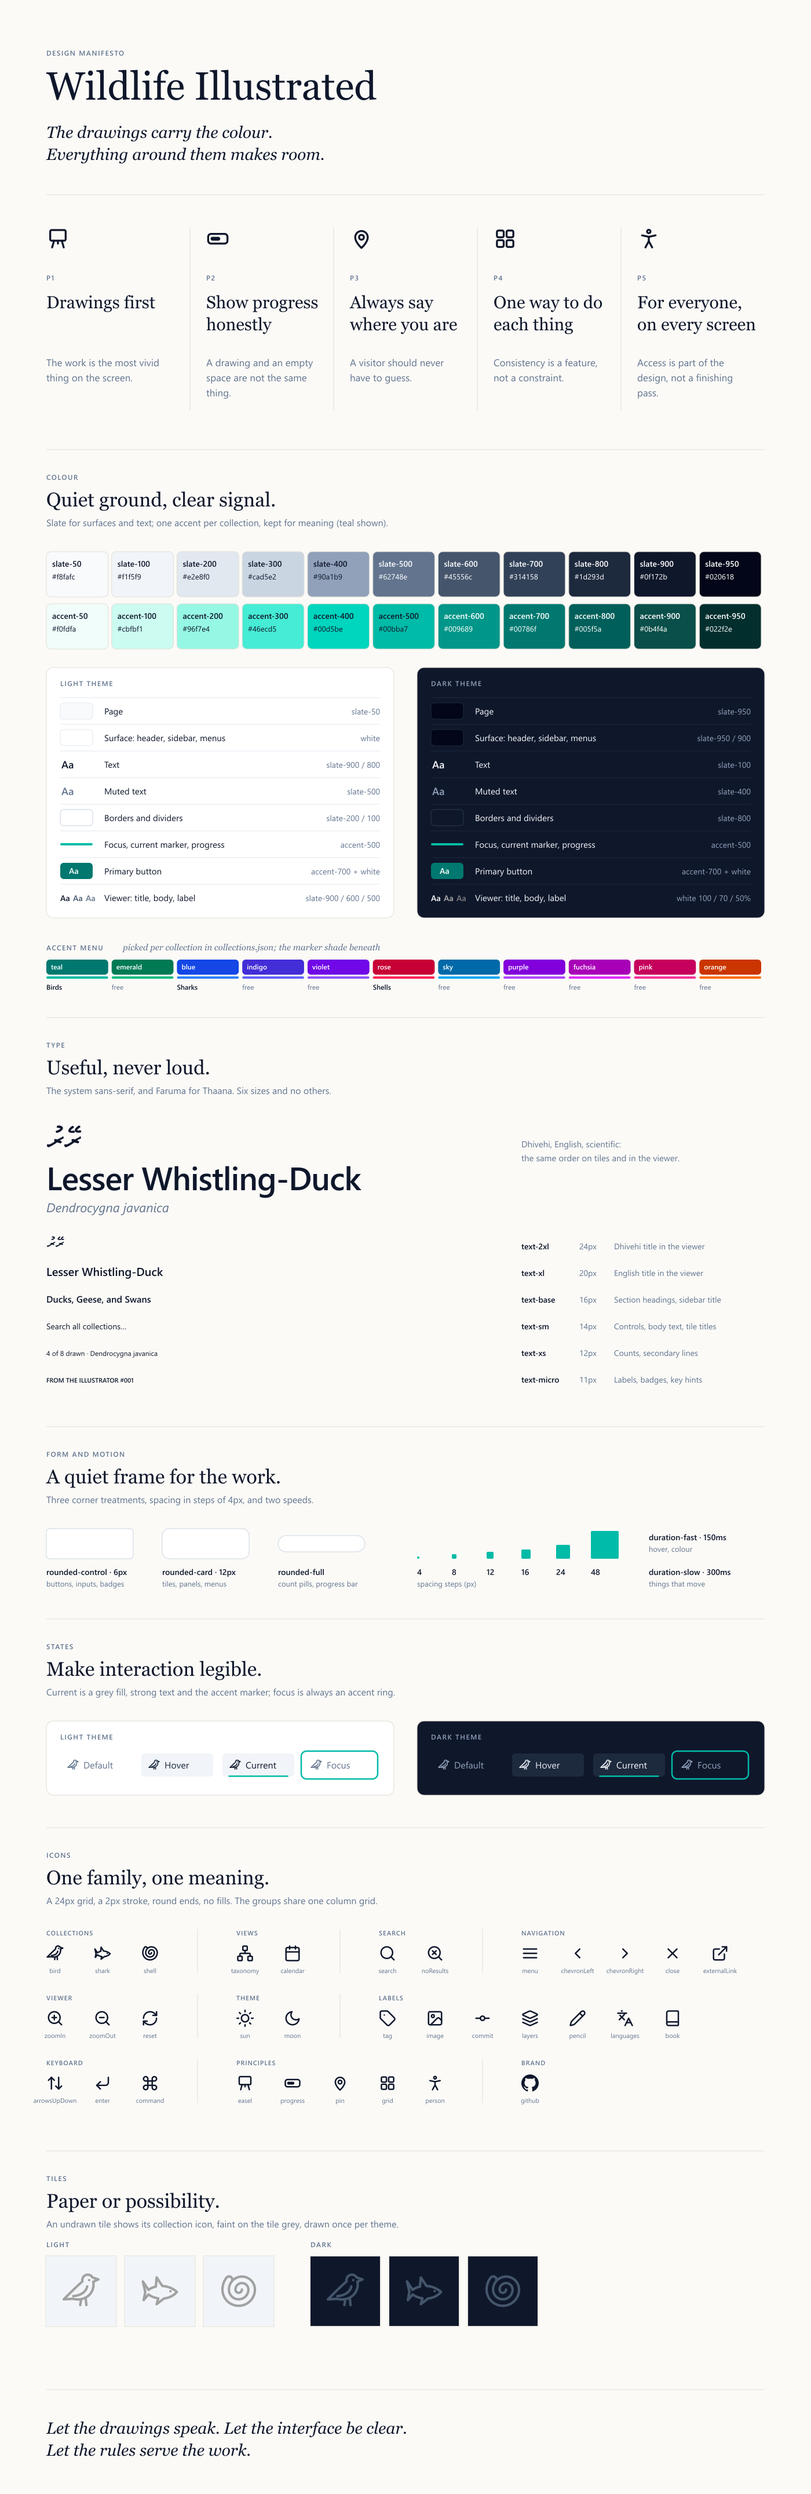
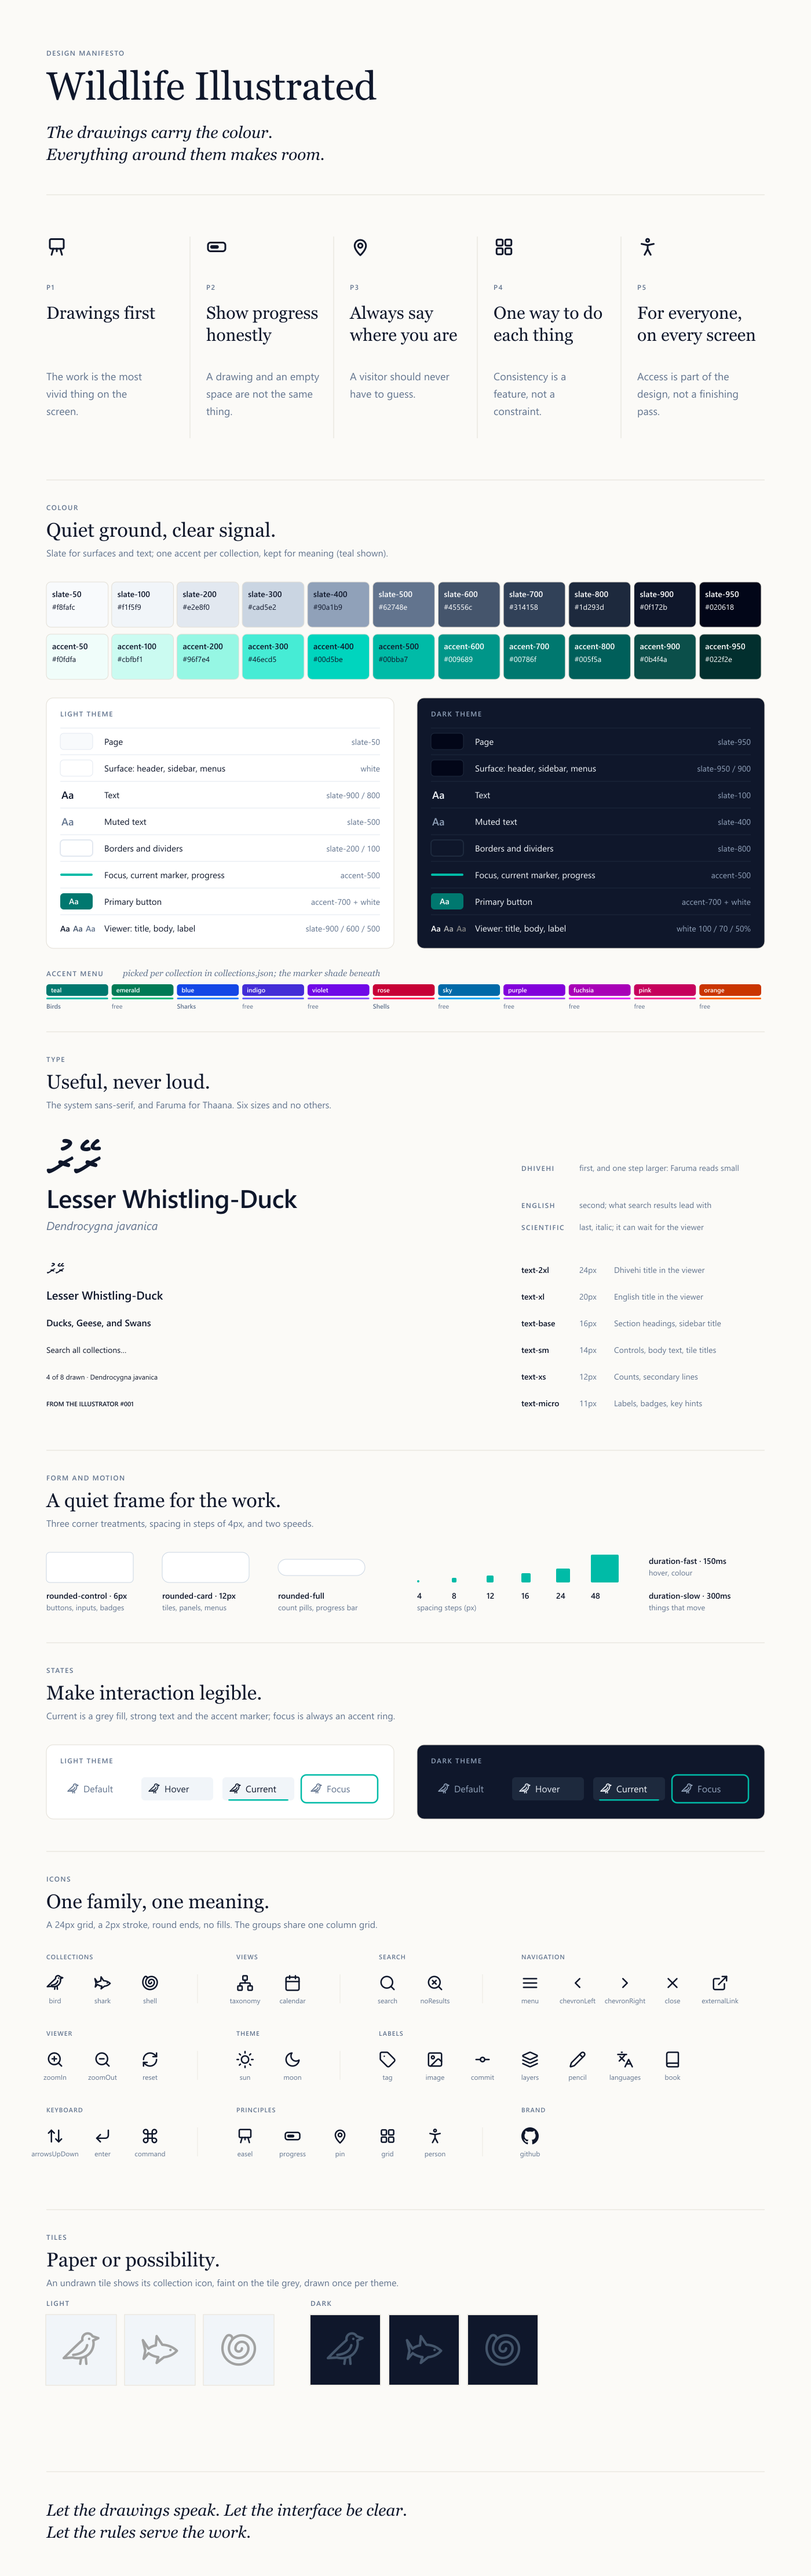
docs(design): the guide's final refinement pass
From the review of V3, in its priority order:
- Accent menu about a quarter shorter, with smaller, muted labels.
- Principle columns: more vertical padding, descriptions at 18px with
  more line spacing.
- Type: one specimen of a name in its three languages, Dhivehi largest,
  then English, then the scientific name, each labelled at its own
  baseline. Thaana overlays are now placed by their bottom edge (the
  rendered image is cropped to the ink), so they sit on the baseline.
- Icons: more space between a group's label and its icons, slightly
  larger names, and softer dividers beside the icons only.
- More space above the closing line.

diff --git a/script/design/draw_design_guide.ts b/script/design/draw_design_guide.ts
@@ -25,6 +25,7 @@ const MUTED = SLATE['500'];
 // statements. The site's own colours are the slate and accent swatches drawn on it.
 const PAPER = '#fbfaf7';
 const RULE = '#e2ded5';
+const RULE_SOFT = '#ebe8e1'; // the icon groups' dividers: present, never louder than the icons
 const FONT = 'font-family="Segoe UI, Helvetica, Arial, sans-serif"';
 const SERIF_FACE = 'font-family="Georgia, Cambria, serif"';
 const SERIF = `${SERIF_FACE} font-style="italic"`;
@@ -73,8 +74,13 @@ const icon = (name: keyof typeof ICONS, x: number, y: number, size: number, ink:
   return `<g transform="translate(${x} ${y}) scale(${size / 24})" ${paint}>${def.body}</g>`;
 };
 
-/** Dhivehi in Faruma, `size` px, its baseline at `baseline`: an image to lay over the page. */
-async function thaana(s: string, x: number, baseline: number, size: number) {
+/**
+ * Dhivehi in Faruma, `size` px, its baseline at `baseline`: an image to lay over the
+ * page. The rendered image is cropped to the ink, so it is placed by its bottom edge:
+ * `descent` is how far the text's lowest mark reaches below the baseline, in ems
+ * (ރޭރު reaches 0.06, measured in the browser).
+ */
+async function thaana(s: string, x: number, baseline: number, size: number, descent = 0.06) {
   const input = await sharp({
     text: {
       text: `<span foreground="${INK}">${s}</span>`,
@@ -84,7 +90,8 @@ async function thaana(s: string, x: number, baseline: number, size: number) {
       dpi: 72,
     },
   }).png().toBuffer();
-  return { input, left: x, top: Math.round(baseline - size * 0.95) };
+  const { height = 0 } = await sharp(input).metadata();
+  return { input, left: x, top: Math.round(baseline + descent * size - height) };
 }
 
 /**
@@ -118,16 +125,27 @@ function ramp(y: number, name: string, colors: Record<string, string>): string {
 function iconGroups(
   x0: number,
   y0: number,
-  o: { cols: number; size: number; cell: number; row: number; label: number; name: number },
+  o: {
+    cols: number;
+    size: number;
+    cell: number;
+    row: number;
+    label: number;
+    name: number;
+    /** Space between a group's label and its icons. */
+    gap?: number;
+  },
   ink: string,
 ): { svg: string; bottom: number } {
   const layout = iconGridLayout(ICON_GROUPS, o.cols);
+  const gap = o.gap ?? 16;
   let svg = '';
   for (const group of layout) {
     const y = y0 + group.row * o.row;
     if (group.col > 0) {
+      // Beside the icons only, not the labels: the grouping shows without a cage of lines.
       const x = x0 + (group.col - 1) * o.cell + o.size / 2;
-      svg += line(x, y - o.label, x, y + 16 + o.size + o.name + 8);
+      svg += line(x, y + gap, x, y + gap + o.size + o.name + 8, RULE_SOFT);
     }
     svg += text(
       x0 + group.col * o.cell,
@@ -140,10 +158,10 @@ function iconGroups(
     );
     for (const { name, col } of group.icons) {
       const x = x0 + col * o.cell;
-      svg += icon(name as keyof typeof ICONS, x, y + 16, o.size, ink) +
+      svg += icon(name as keyof typeof ICONS, x, y + gap, o.size, ink) +
         text(
           x + o.size / 2,
-          y + 16 + o.size + o.name + 8,
+          y + gap + o.size + o.name + 8,
           name,
           o.name,
           MUTED,
@@ -286,13 +304,13 @@ export async function designGuide(
   PRINCIPLES.forEach((p, i) => {
     const x = X + i * colW + (i ? 28 : 0);
     parts.push(
-      (i ? line(x - 28, y + 56, x - 28, y + 372) : '') + icon(p.icon, x, y + 56, 40, INK) +
-        caps(x, y + 148, `P${i + 1}`) +
-        para(x, y + 196, wrap(p.title, 15), 38, `${SERIF_FACE} font-size="30" fill="${INK}"`) +
-        para(x, y + 296, wrap(p.summary, 26), 26, `${FONT} font-size="17" fill="${MUTED}"`),
+      (i ? line(x - 28, y + 72, x - 28, y + 420) : '') + icon(p.icon, x, y + 72, 36, INK) +
+        caps(x, y + 164, `P${i + 1}`) +
+        para(x, y + 214, wrap(p.title, 15), 38, `${SERIF_FACE} font-size="30" fill="${INK}"`) +
+        para(x, y + 320, wrap(p.summary, 24), 30, `${FONT} font-size="18" fill="${MUTED}"`),
     );
   });
-  y += 440;
+  y += 492;
 
   // ── Colour ──
   let s = section(
@@ -310,7 +328,7 @@ export async function designGuide(
   const menu = await accentMenu();
   const usedBy = (hue: string) =>
     cols.filter((c) => (c.accent ?? 'teal') === hue).map((c) => c.label).join(', ');
-  const ry = card.bottom + 56;
+  const ry = card.bottom + 48;
   parts.push(
     caps(X, ry, 'Accent menu') +
       serif(X + 132, ry, 'picked per collection in collections.json; the marker shade beneath', 15),
@@ -326,12 +344,12 @@ export async function designGuide(
     const x = X + i * sw;
     const who = usedBy(hue);
     parts.push(
-      rect(x, ry + 16, sw - 6, 26, hex[700], 6) + text(x + 8, ry + 33, hue, 12, '#ffffff', 600) +
-        rect(x, ry + 45, sw - 6, 4, hex[500], 2) +
-        text(x, ry + 68, who || 'free', 12, who ? INK : MUTED, who ? 600 : 400),
+      rect(x, ry + 14, sw - 6, 20, hex[700], 5) + text(x + 8, ry + 28, hue, 11, '#ffffff', 600) +
+        rect(x, ry + 37, sw - 6, 3, hex[500], 1.5) +
+        text(x, ry + 56, who || 'free', 11, MUTED, who ? 600 : 400),
     );
   });
-  y = ry + 116;
+  y = ry + 96;
 
   // ── Type: one name as the specimen, then the scale ──
   s = section(
@@ -341,13 +359,22 @@ export async function designGuide(
     'The system sans-serif, and Faruma for Thaana. Six sizes and no others.',
   );
   parts.push(s.svg);
-  const hero = s.top + 56;
-  dhivehi.push(await thaana('ރޭރު', X, hero, 48));
+  // One name in its three languages, in the order and proportions the site uses:
+  // Dhivehi first and largest, English second, the scientific name small and italic.
+  const hero = s.top + 64;
+  const names: [string, number, string][] = [
+    ['Dhivehi', hero, 'first, and one step larger: Faruma reads small'],
+    ['English', hero + 64, 'second; what search results lead with'],
+    ['Scientific', hero + 102, 'last, italic; it can wait for the viewer'],
+  ];
+  dhivehi.push(await thaana('ރޭރު', X, hero, 76));
   parts.push(
-    text(X, hero + 66, 'Lesser Whistling-Duck', 56, INK, 600, 'letter-spacing="-1"') +
-      text(X, hero + 104, 'Dendrocygna javanica', 22, MUTED, 400, 'font-style="italic"') +
-      text(X + 820, hero - 8, 'Dhivehi, English, scientific:', 15, MUTED) +
-      text(X + 820, hero + 16, 'the same order on tiles and in the viewer.', 15, MUTED),
+    text(X, hero + 64, 'Lesser Whistling-Duck', 44, INK, 600, 'letter-spacing="-0.5"') +
+      text(X, hero + 102, 'Dendrocygna javanica', 20, MUTED, 400, 'font-style="italic"') +
+      names.map(([label, base, note]) =>
+        caps(X + 820, base, label) + text(X + 920, base, note, 14, MUTED)
+      )
+        .join(''),
   );
   const sizes: [string, number, number, string, string][] = [
     ['text-2xl', 24, 700, 'ރޭރު', 'Dhivehi title in the viewer'],
@@ -357,7 +384,7 @@ export async function designGuide(
     ['text-xs', 12, 400, '4 of 8 drawn · Dendrocygna javanica', 'Counts, secondary lines'],
     ['text-micro', 11, 600, 'FROM THE ILLUSTRATOR   #001', 'Labels, badges, key hints'],
   ];
-  let ty = hero + 168;
+  let ty = hero + 176;
   for (const [token, px, weight, sample, use] of sizes) {
     if (token === 'text-2xl') dhivehi.push(await thaana(sample, X, ty, px));
     else parts.push(text(X, ty, sample, px, INK, weight));
@@ -427,9 +454,10 @@ export async function designGuide(
     cols: 15,
     size: 30,
     cell: 82,
-    row: 112,
+    row: 132,
     label: 11,
-    name: 11,
+    name: 12,
+    gap: 26,
   }, INK);
   parts.push(groups.svg);
   y = groups.bottom + 36;
@@ -462,7 +490,7 @@ export async function designGuide(
       rect(p.left - 1, p.top - 1, P + 2, P + 2, 'none', 0, `stroke="${RULE}"`)
     ),
   );
-  y = s.top + 6 + P + 110;
+  y = s.top + 6 + P + 150;
 
   // ── The ending, set like the opening ──
   parts.push(

diff --git a/CHANGELOG.md b/CHANGELOG.md
@@ -16,6 +16,10 @@ where `w` was the drawing count.
 
 ## v0.9.0 (Stores, Tests, Accessibility & Design)
 
+- 2026-10-25 | docs: the design guide's final refinement pass. A shorter, quieter accent menu; more
+  room in the principle columns; one specimen of a name in its three languages (Dhivehi largest,
+  English, then the scientific name), each named at its own baseline; more air in the icon groups,
+  with softer dividers beside the icons only; more space above the closing line
 - 2026-10-24 | fix: Dhivehi names no longer lose the bottom of their vowel marks in tile captions
   and search rows (Faruma's marks reach half an em below the baseline; `.font-dhivehi` now gives
   them a 1.85 line height)
